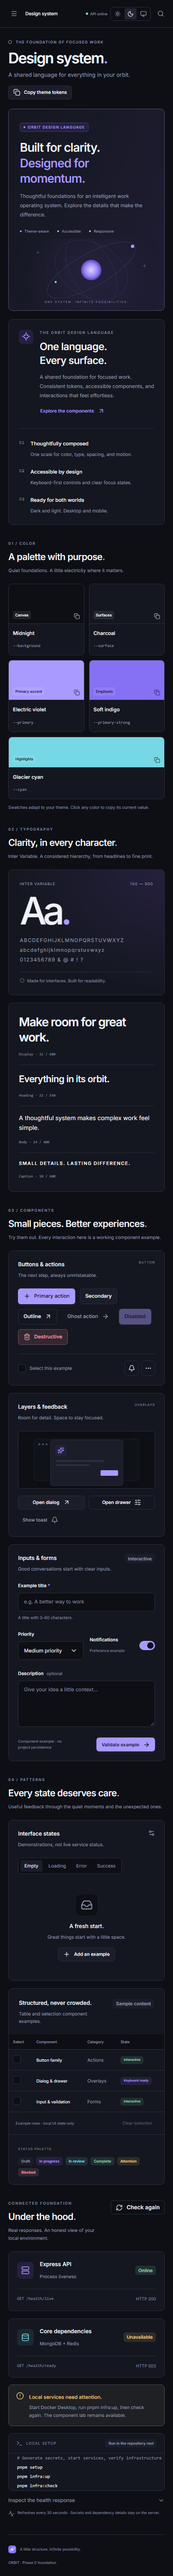
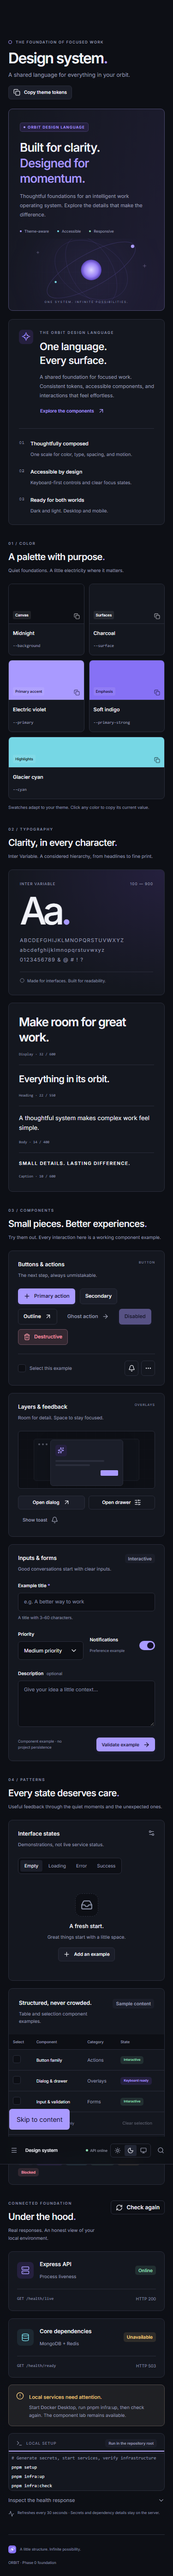
fix: make lab code regions keyboard accessible
Address Linux mobile axe findings with labeled focus targets and keyboard scrolling verification. Record the independently passed remote infrastructure checks and refresh the lab screenshots.

diff --git a/tests/e2e/lab.spec.ts b/tests/e2e/lab.spec.ts
@@ -35,6 +35,17 @@ for (const theme of ['dark', 'light'] as const) {
       await expect(page.locator('html')).toHaveAttribute('data-theme', theme);
       await expect(page.getByText('API online', { exact: true })).toBeVisible();
       await page.mouse.move(0, 0);
+      if (width === 375) {
+        const commands = page.getByRole('region', { name: 'Local infrastructure setup commands' });
+        await commands.focus();
+        await expect(commands).toBeFocused();
+        if (await commands.evaluate((element) => element.scrollWidth > element.clientWidth)) {
+          await commands.press('ArrowRight');
+          await expect
+            .poll(() => commands.evaluate((element) => element.scrollLeft))
+            .toBeGreaterThan(0);
+        }
+      }
       await page.evaluate(async () => {
         await Promise.all(
           document

diff --git a/apps/web/src/components/SystemStatus.tsx b/apps/web/src/components/SystemStatus.tsx
@@ -115,7 +115,7 @@ export function SystemStatus() {
           <span>LOCAL SETUP</span>
           <Badge>Run in the repository root</Badge>
         </div>
-        <pre>
+        <pre tabIndex={0} role="region" aria-label="Local infrastructure setup commands">
           <code>
             <span className="terminal-comment">
               # Generate secrets, start services, verify infrastructure
@@ -125,7 +125,7 @@ export function SystemStatus() {
         </pre>
       </Card>
       <Accordion title="Inspect the health response">
-        <pre className="response-json">
+        <pre className="response-json" tabIndex={0} role="region" aria-label="Live health response">
           {JSON.stringify(
             {
               liveness: live.data ?? { error: live.error?.message ?? 'Checking' },

diff --git a/docs/PHASE4_REPORT.md b/docs/PHASE4_REPORT.md
@@ -54,7 +54,15 @@ An invitation fragment opened on the already-mounted acceptance route initially 
 
 The previous [Phase 3 GitHub workflow](https://github.com/devanshchaudharyy/orbit/actions/runs/38066306026) completed with failure at production-preview startup detection. The checker had depended on an exact URL substring in Vite's colored output. It now safely reserves its port, drains output, and verifies HTTP readiness. The corrected production check passed locally with CI-style color settings. New remote workflow results are independent of the local results above.
 
-## Screenshots and review
+## GitHub publication and remote verification
+
+Implementation commit: `674006f54b8e85417211f03c9f7a278658482bbe`, pushed to private [devanshchaudharyy/orbit](https://github.com/devanshchaudharyy/orbit). GitHub's `main` SHA matched the local commit. The staged audit checked **281 tracked files**, **129 screenshots**, five generated development secrets and local links with zero issues. Local configuration, fixture databases/executables and test reports remain ignored.
+
+[Initial Phase 4 workflow run](https://github.com/devanshchaudharyy/orbit/actions/runs/38069410641) independently passed frozen installation, formatting, lint, typechecks, unit tests, builds, Compose startup, the four full infrastructure checks and production verification. It failed two mobile lab axe checks because the setup code block could scroll horizontally on Linux but had no keyboard focus target. The setup and health-response blocks now have labeled, focusable regions; mobile tests verify focus and keyboard scrolling when overflow exists. The initial overall run failed and skipped the Compose account/team suite; it is not counted as passing CI. A corrective run follows. The local verification table above stands independently.
+
+Remote infrastructure checks use the pinned MongoDB8.0.17/Redis/Garage/Mailpit Compose environment and exercise transactions, reconnect persistence, private objects and captured email. They do not prove restart-sentinel durability on the user's Windows machine or a production deployment.
+
+## Screenshots and review (local evidence)
 
 Retained **48 new Phase 4 captures** in [the gallery](SCREENSHOTS.md): empty team, pending invitation, populated team, member permissions, anonymous invitation/sign-in, ready acceptance, invitation dialog and access sheet; each in both themes at three widths. Existing account and tenant captures are refreshed from regression runs. Dark desktop, light mobile and the access sheet were visually inspected for hierarchy, readable text, wrapping and controls.
 

diff --git a/README.md b/README.md
@@ -50,7 +50,7 @@ See [the screenshot gallery](docs/SCREENSHOTS.md) for all themes, viewport sizes
 
 Passed locally: **96 unit/component/API tests**, **64 real integration/transaction checks** (25 team + 21 tenant + 15 account + 3 account transaction), **45 browser scenarios**, and **130 theme/viewport and overlay accessibility scans** with zero axe violations. Lint, formatting, strict TypeScript, production builds, and **9 production route/build checks** passed. Exact commands and evidence are recorded in [the Phase 4 report](docs/PHASE4_REPORT.md).
 
-The isolated authentication fixture was verified with MongoDB **8.3.4** and Mailpit **1.27.10**. Docker/WSL setup, the pinned full Compose stack, Redis, Garage, and container-restart durability remain deferred. GitHub Actions is configured; its remote results are separate from these local results.
+The isolated authentication fixture was verified with MongoDB **8.3.4** and Mailpit **1.27.10**. Local Docker/WSL setup and container-restart durability remain deferred. GitHub verifies the pinned Compose stack separately; remote results are recorded independently in the phase report.
 
 ## Start locally
 
